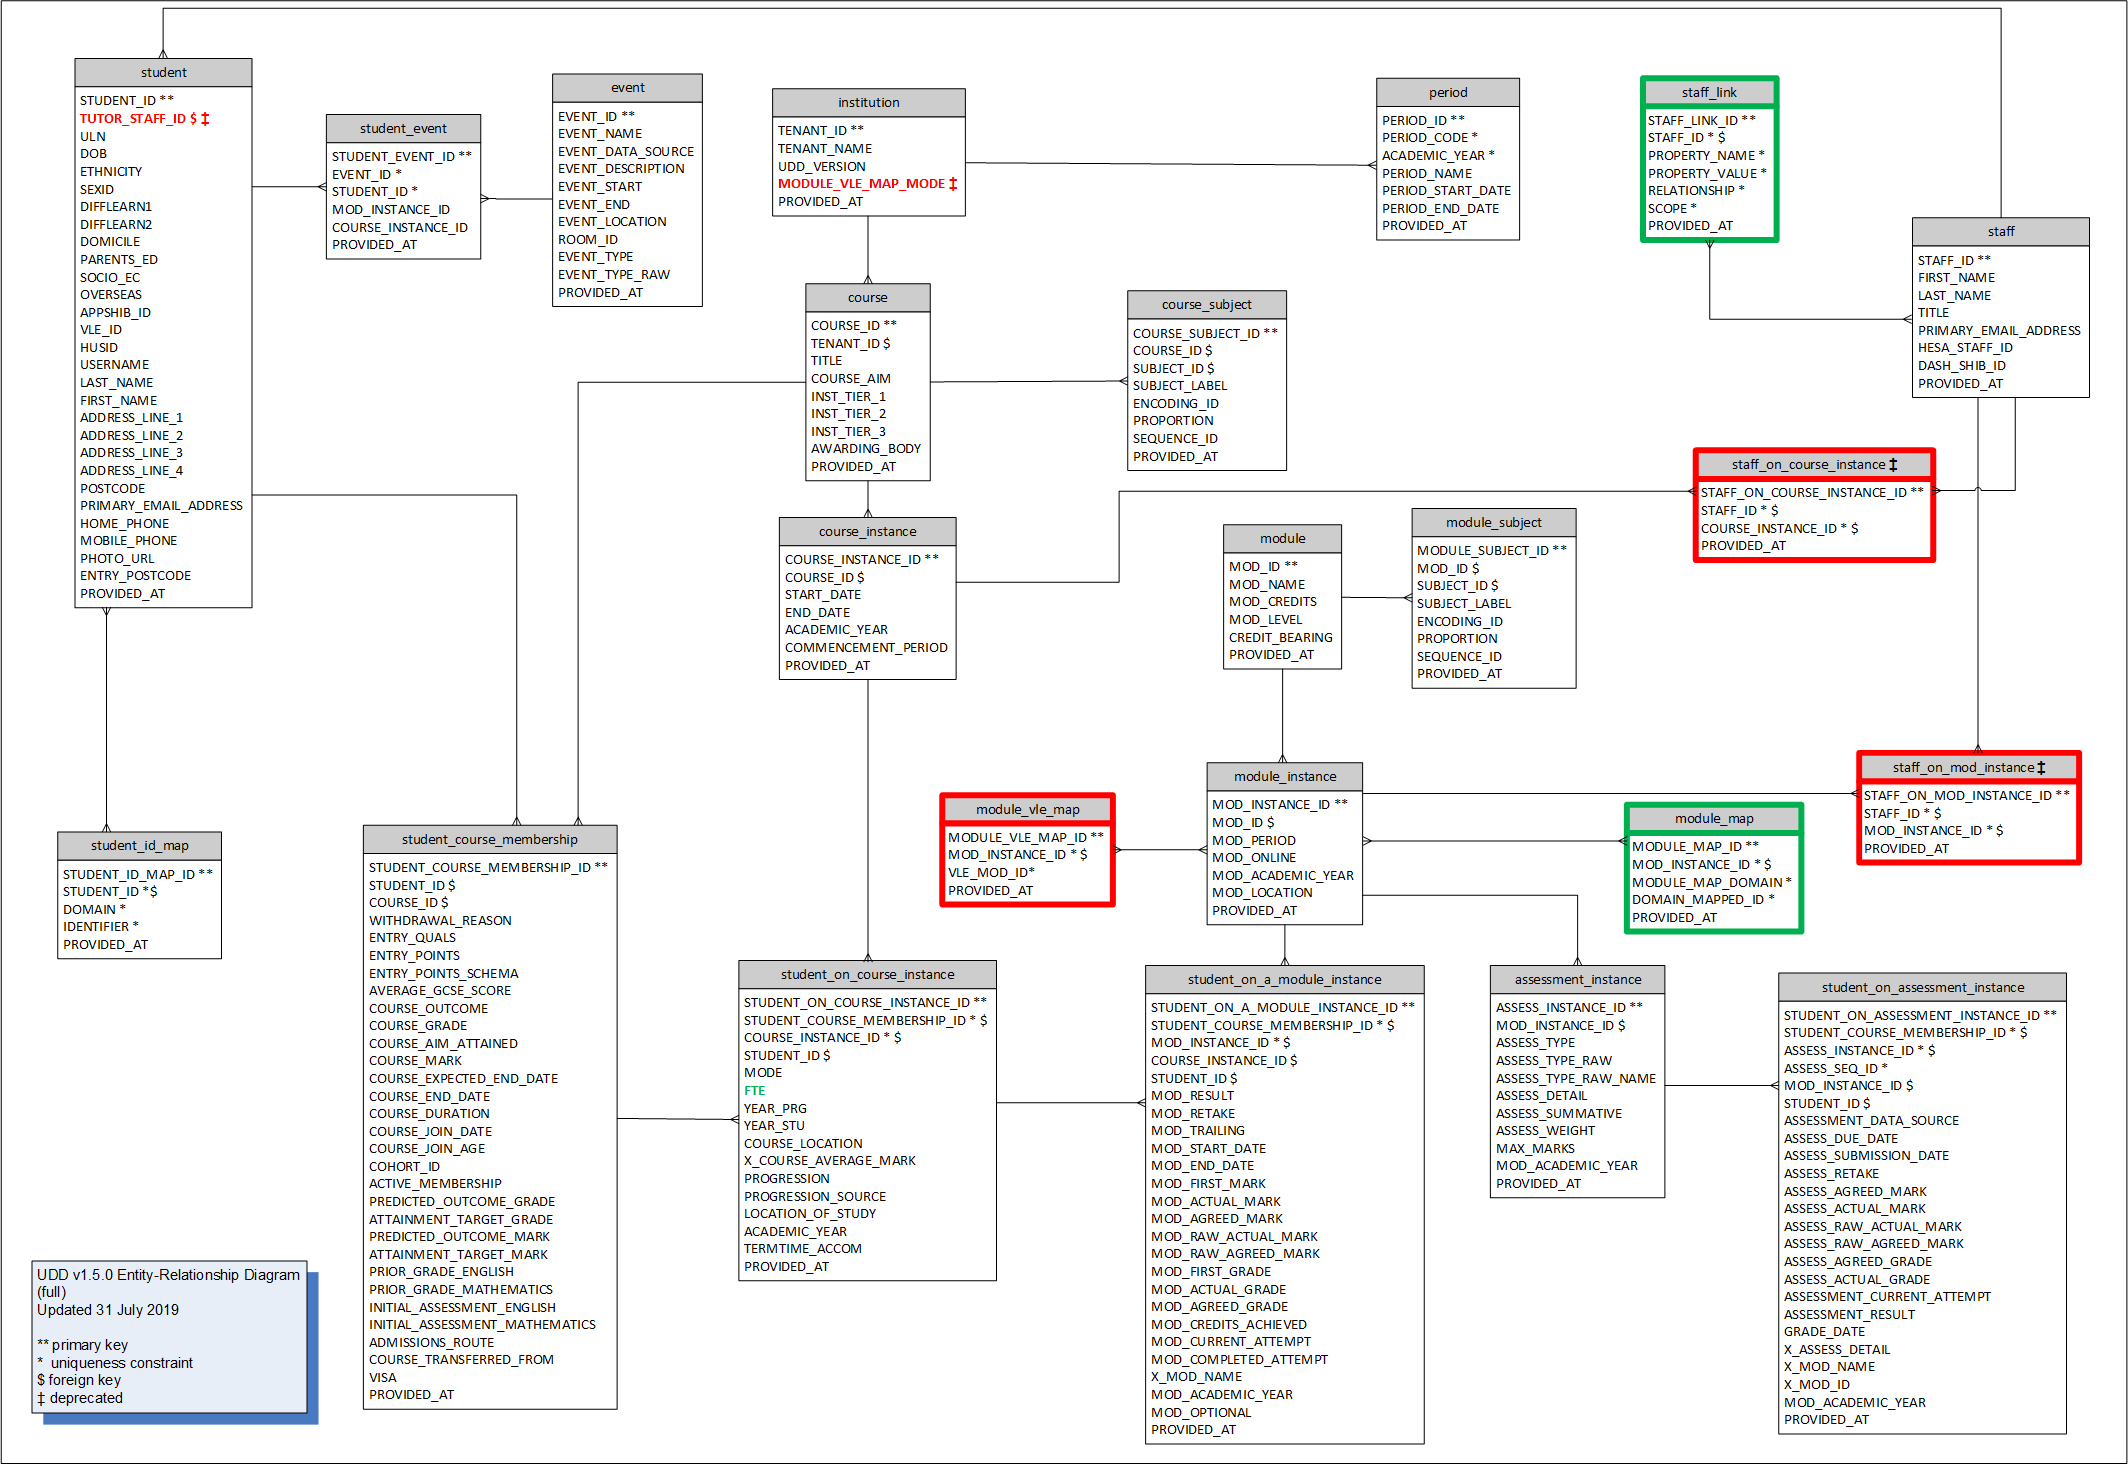
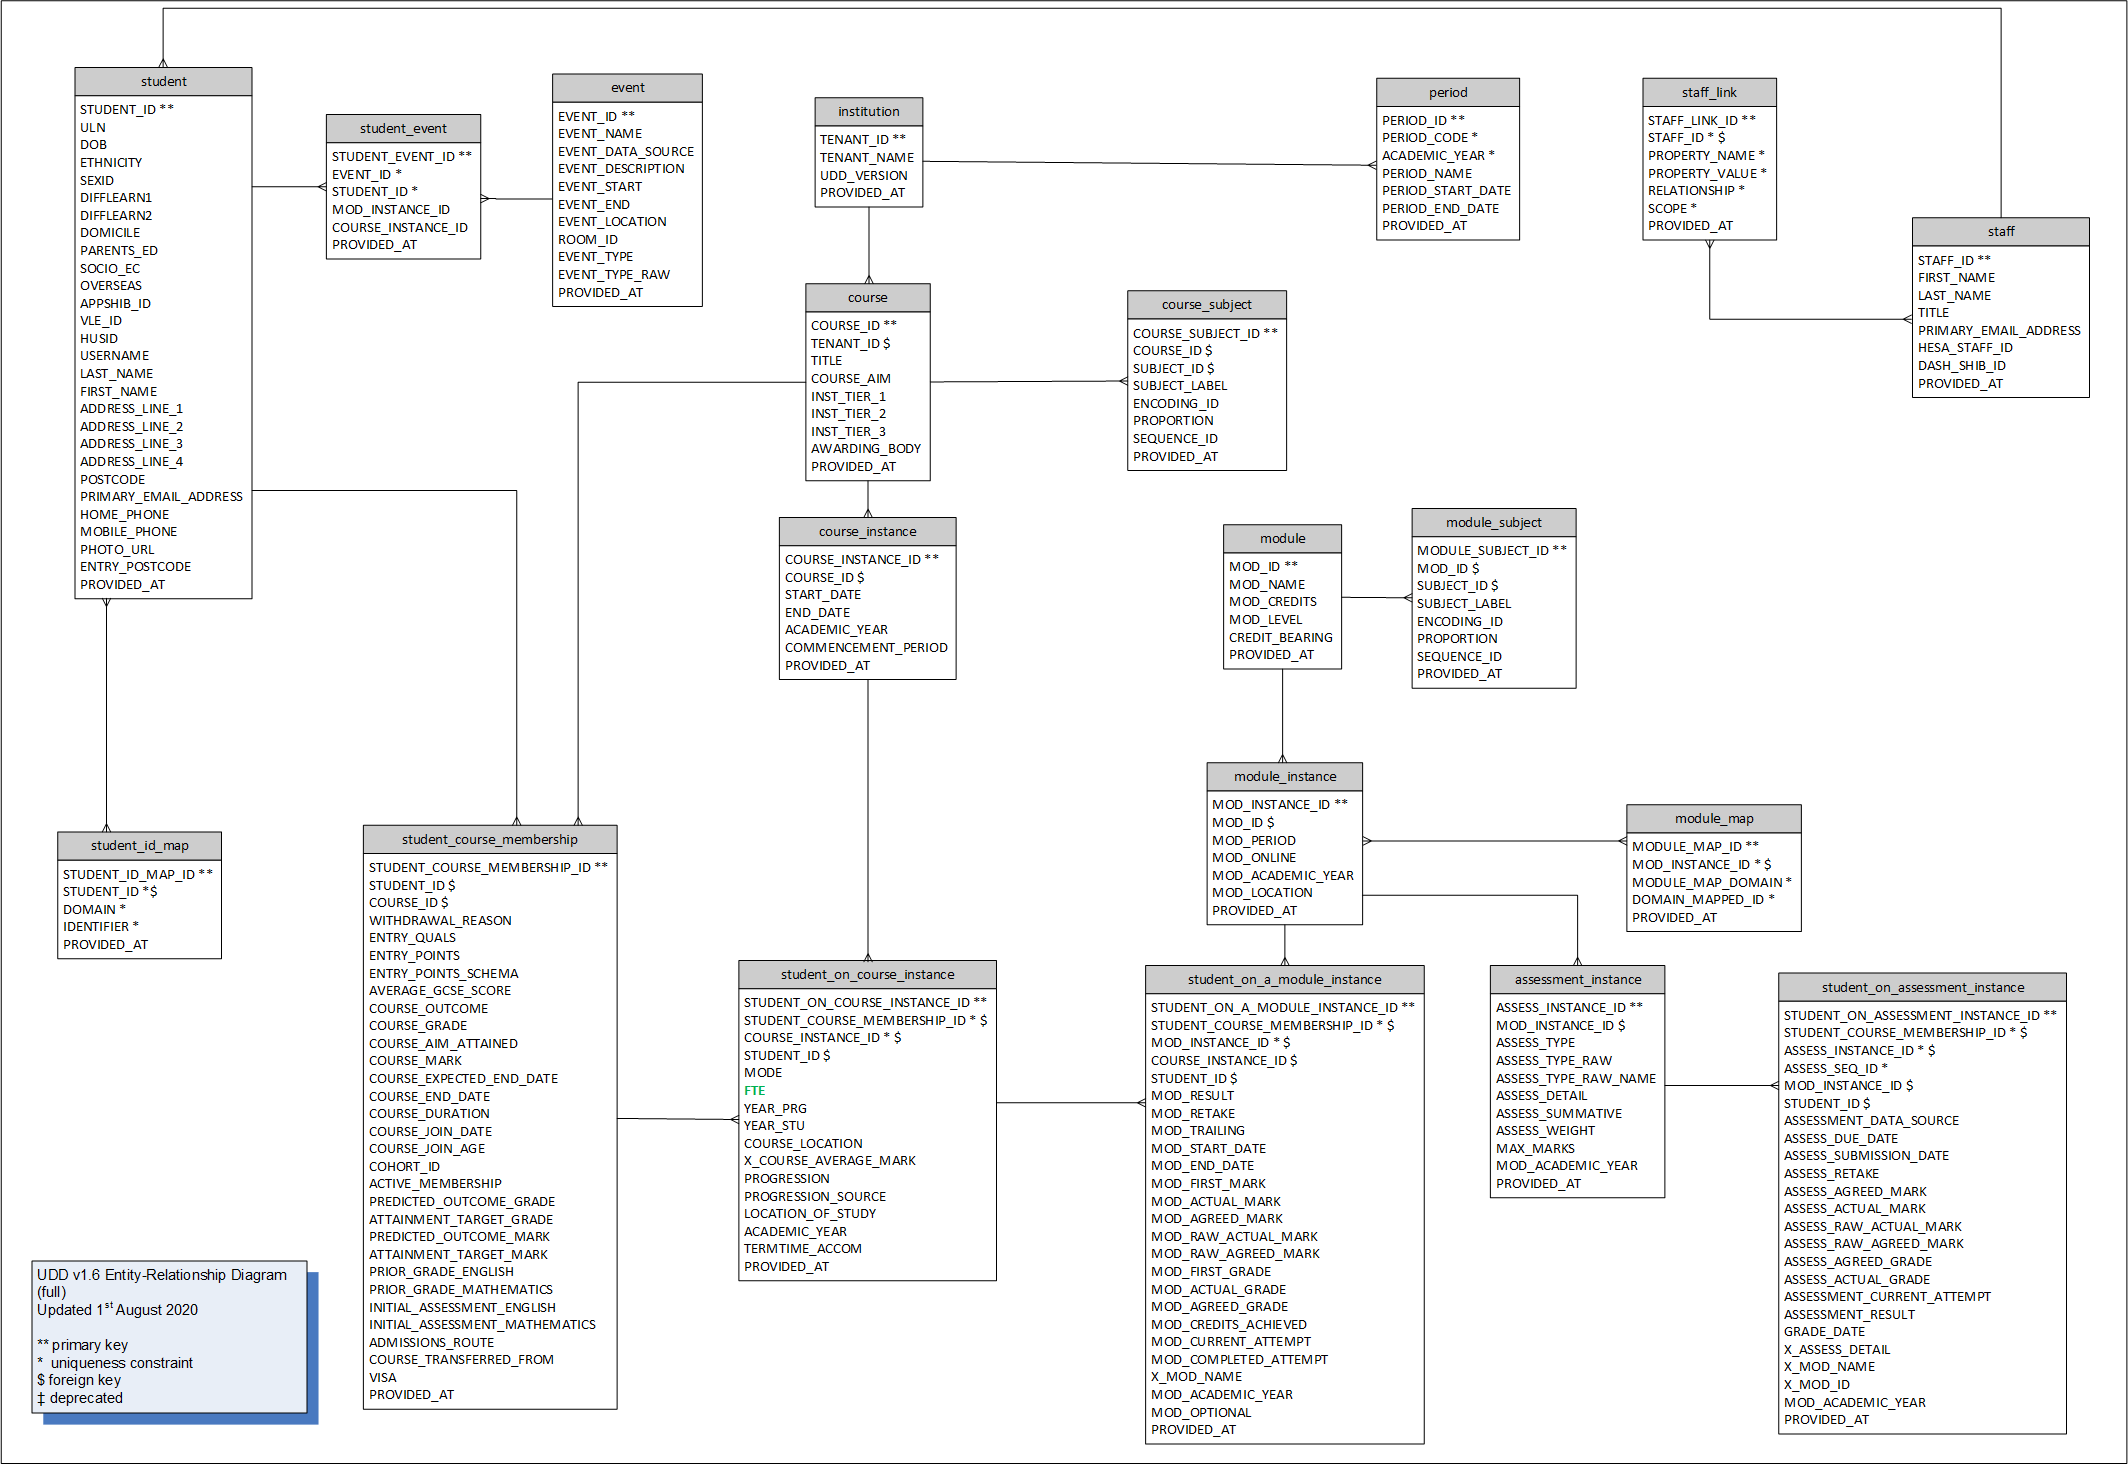
remove 1.5.1 ref from diagram

diff --git a/entity_descriptions.md b/entity_descriptions.md
@@ -50,11 +50,6 @@ By default, MOD_INSTANCE_ID and DOMAIN_MAPPED_ID form a uniqueness constraint wi
 ## Description of module_subject entity
 A module_subject describes the subject or subjects of study of a module, using a specified subject classification system.
 
-# module_VLE_map
-This entity is DEPRECATED. Use module_map for preference.
-## Description of module_VLE_map entity
-A module_VLE_map links a module in a student record system with module materials in a VLE.
-
 # period
 ## Description of period entity
 A period describes an institution's official start date and end date of time slices, such as academic years, terms and semesters.
@@ -68,14 +63,6 @@ A staff element identifies a member of staff at an institution.
 A staff_link record makes a statement about a member of staff in relation to a property of another entity referenced by PROPERTY_NAME and PROPERTY_VALUE; for example, that a specific member of staff identified by STAFF_ID tutors a particular student identified by STUDENT_ID. The type of relationship is described in the RELATIONSHIP property, but the meaning of the relationship, and any functionality associated with it, is not prescribed in the UDD. Instead these are defined and controlled by the organisation responsible for a particular application, product or service identified in the SCOPE property. This entity enables the identification and linking of individual members of staff to single concrete entities (for example, a member of staff to a module_instance via MODULE_INSTANCE_ID), or to multiples (for example, for filtering by INST_TIER).
 
 Other organisations MAY use these RELATIONSHIPs, but no system behaviour should be inferred, except when using one of their own RELATIONSHIPs.
-
-# staff_on_course_instance
-## Description of staff_on_course_instance entity
-A staff_on_course_instance links a member of staff to a course_instance.
-
-# staff_on_mod_instance
-## Description of staff_on_mod_instance entity
-A staff_on_mod_instance links a member of staff to a module_instance.
 
 # student
 ## Description of student entity

diff --git a/README.md b/README.md
@@ -28,7 +28,9 @@ UDD data must be UTF-8 encoded. TSV is the preferred data format, but JSON and X
 When providing UDD data, supply the data for different entities in separate files, 1 file per entity, using the [UDD filename conventions](implementation/filename_conventions.md).
 
 ## Diagram
-An Entity-relationship diagrams provide an overview of the specification. [Full ERD](diagramFull.md) with all the properties.
+An Entity-relationship diagrams provide the full specification with all its properties.
+
+![UDD entity relation diagram](media/UDDdiagramFull.png "UDD entity-relationship diagram with all properties")
 
 ## Entities
 
@@ -150,26 +152,6 @@ Note that some properties will be marked as 'deprecated'. This means that the pr
 ## Acknowledgements
 
 Many thanks to all contributors who have raised issues, sent pull requests, commented and made suggestions. The UDD specification is the achievement of all of you.
-
-- @alanepaull
-- @andrewhickey
-- @arc12
-- @christoffballard
-- @craig-petch
-- @ds10
-- @gmoger-jisc
-- @gryglbrt
-- @ht2 
-- @huwrobertsjisc
-- @Josh-Ring-jisc
-- @jfmullaney
-- @michaelwebjisc
-- @MiroslavKratchounov
-- @robwynj
-- @ryansmith94
-- @sandeepmjay
-- @willblenkhorn
-- @wilmTap
 
 
 ### License

diff --git a/differences.md b/differences.md
@@ -4,6 +4,8 @@ The following spreadsheet gives an overview of all the changes between UDD Versi
 
 [Excel Spreadsheet of UDD Revision History][differencesXLS]
 
+![UDD entity relation diagram](media/UDDdiagramFull_latest_changes.png "UDD entity-relationship diagram with all properties")
+
 [differencesXLS]: media/UDD_Revision_History.xlsx "differencesXLS"
 
 ## Summary of differences
